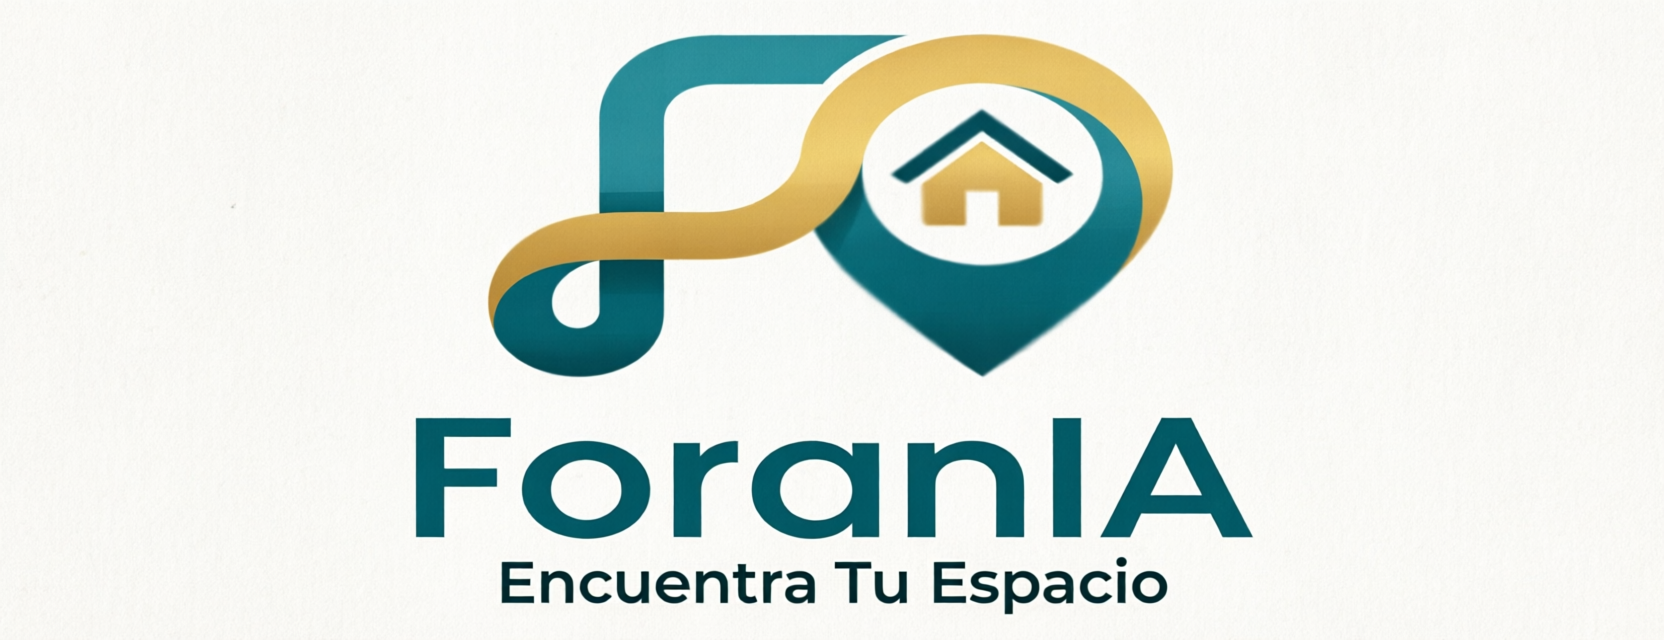
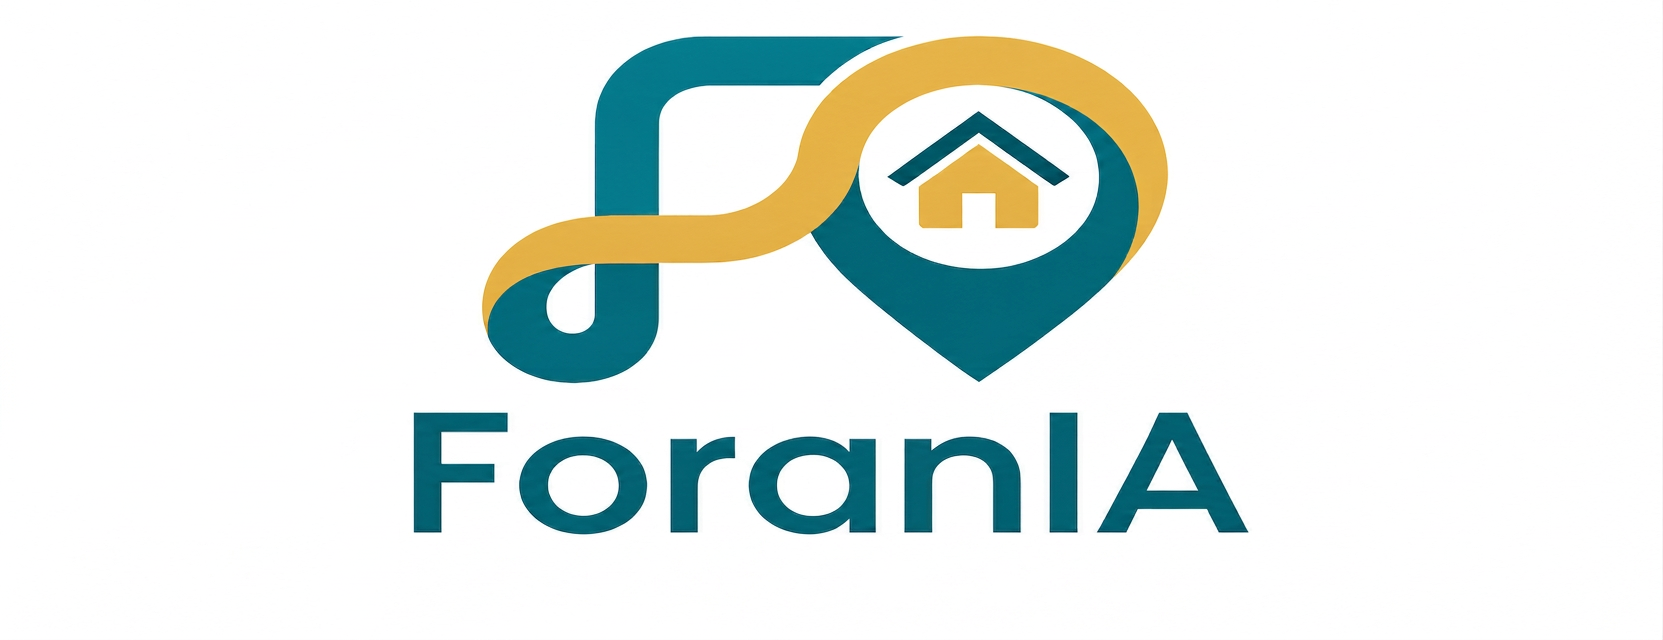
Edicion de imagen Forania

diff --git a/css/style.css b/css/style.css
@@ -26,7 +26,7 @@ a{text-decoration:none;color:inherit}
 /* ===== Header ===== */
 .header{position:sticky;top:0;z-index:100;background:rgba(255,255,255,.92);backdrop-filter:blur(8px);border-bottom:1px solid var(--line)}
 .header-inner{display:flex;align-items:center;justify-content:space-between;height:64px}
-.logo{font-size:1.4rem;font-weight:800;letter-spacing:-.5px}
+.logo{font-size:1.4rem;font-weight:800;letter-spacing:-.5px;display:flex;align-items:center}.logo img{height:50px;width:auto}
 .logo span{color:var(--primary)}
 .nav{display:flex;align-items:center;gap:22px}
 .nav-link{font-weight:600;font-size:.95rem;color:#374151;transition:.2s;padding:6px 2px;border-bottom:2px solid transparent}

diff --git a/index.html b/index.html
@@ -11,7 +11,7 @@
 <!-- ============ HEADER ============ -->
 <header class="header">
   <div class="container header-inner">
-    <a href="#" class="logo" data-nav="home">Foran<span>IA</span></a>
+    <a href="#" class="logo" data-nav="home"><img src="Forania.png" alt="ForanIA"></a>
     <nav class="nav" id="nav">
       <a href="#" data-nav="home" class="nav-link">Inicio</a>
       <a href="#" data-nav="alquileres" class="nav-link">Alquileres</a>
